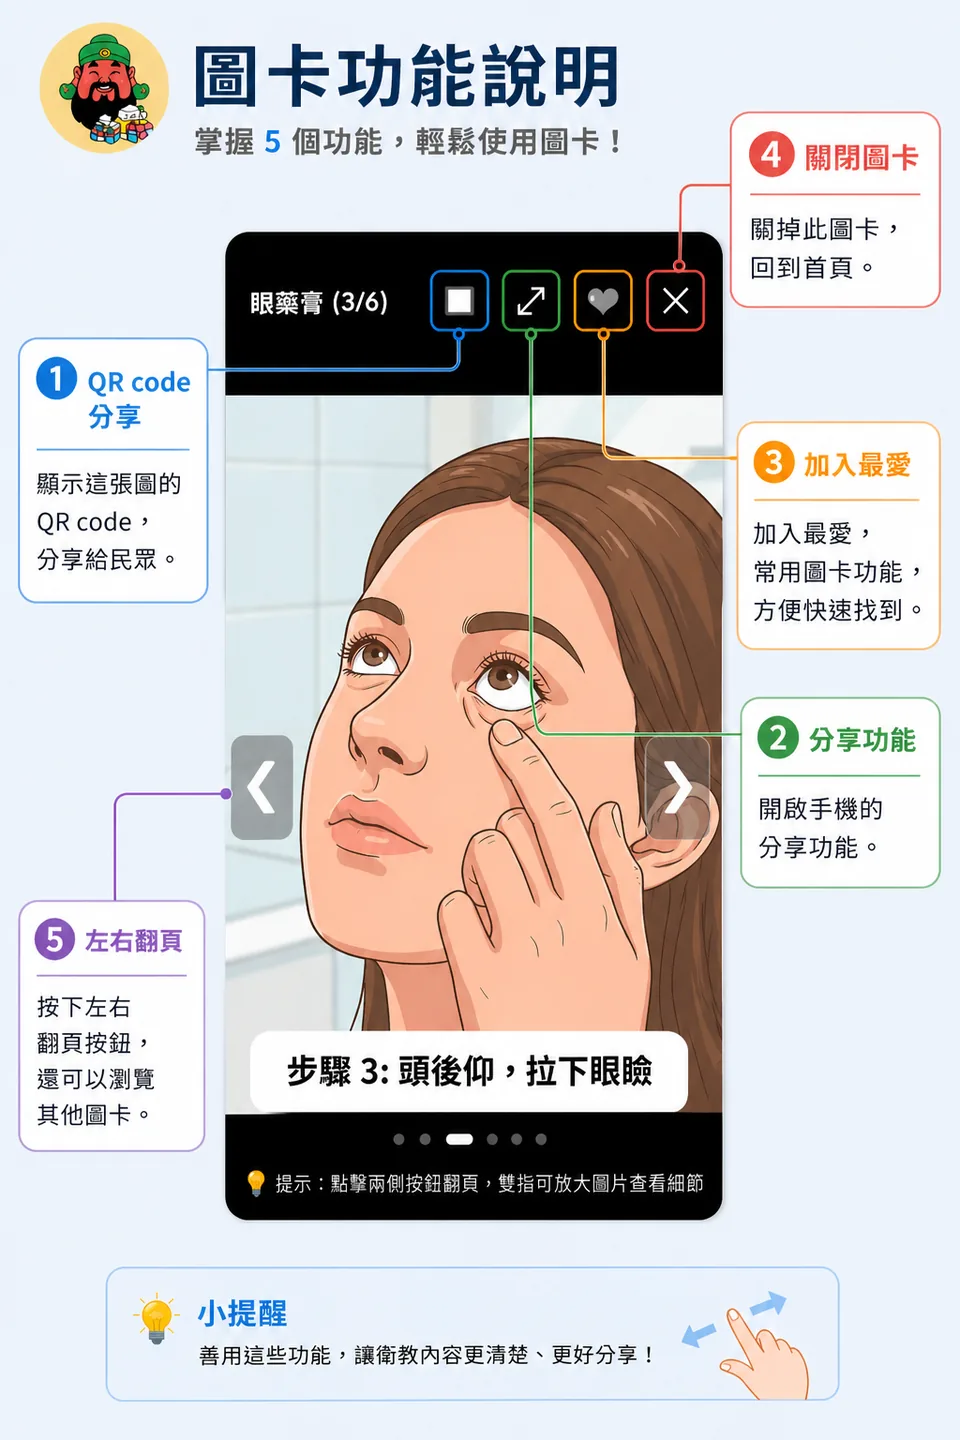
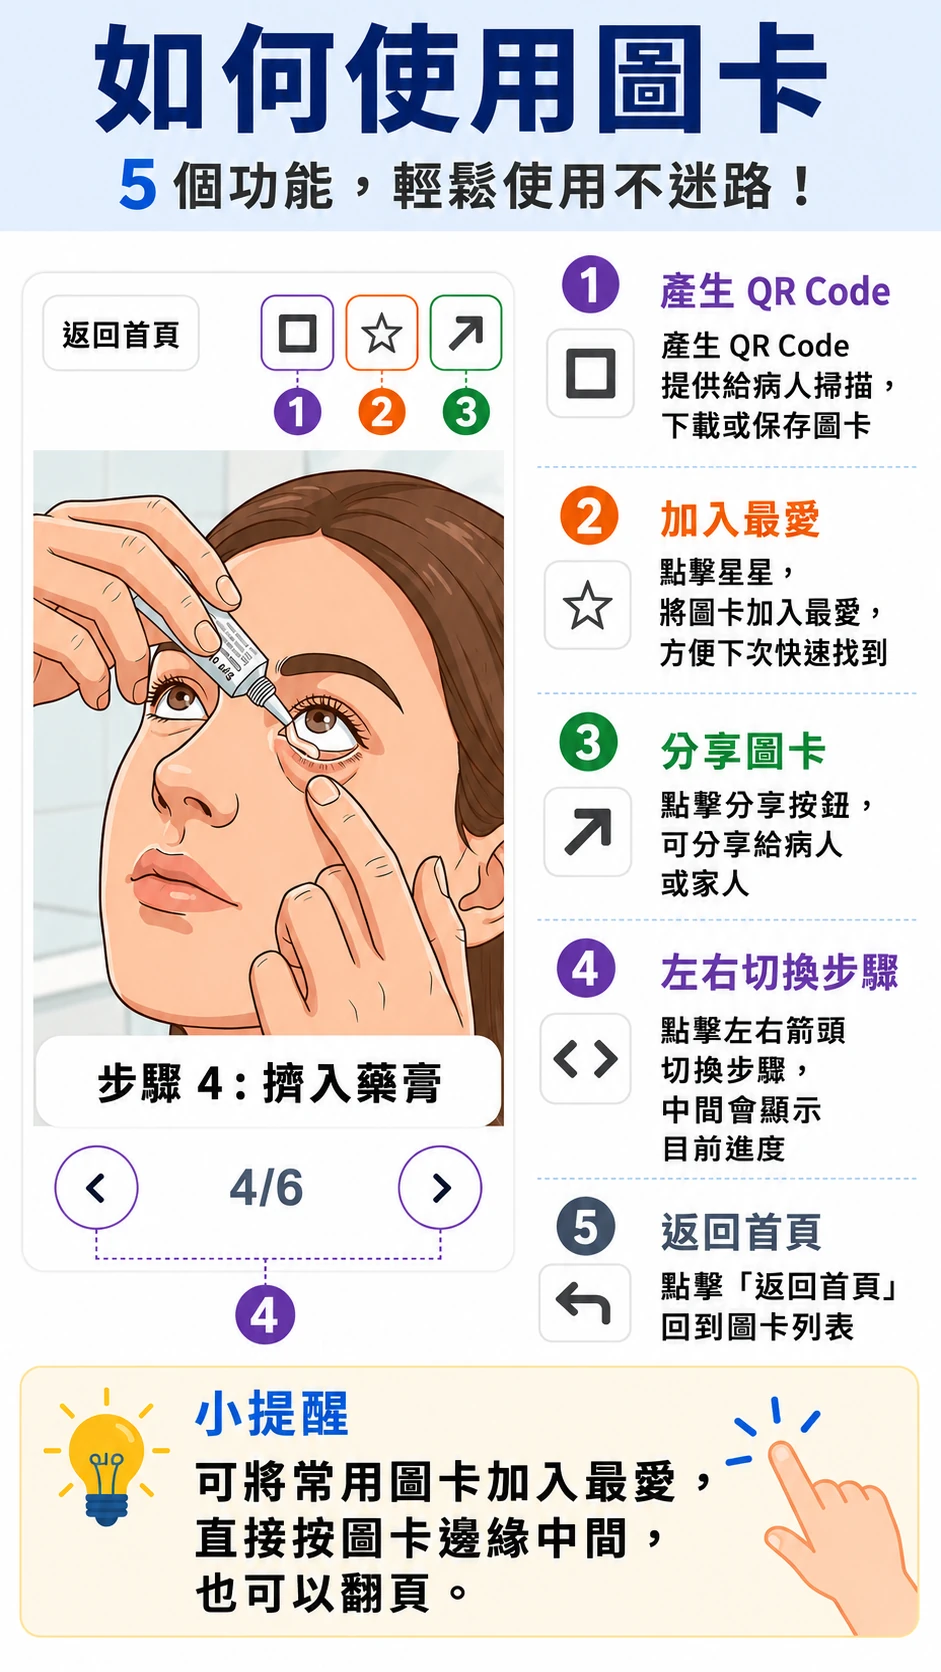
site instruction

diff --git a/sw.js b/sw.js
@@ -1,5 +1,5 @@
 // ?湔???唾?嚗撥餈恍??唳??
-const CACHE_NAME = 'pwa-cache-v202605142023';
+const CACHE_NAME = 'pwa-cache-v202605142348';
 const RUNTIME_CACHE = 'pwa-runtime-v1';
 
 // ?? ?ㄐ敺?ASSETS ?寞?鈭?urlsToCache嚗見 Python 蝞∪振?敺嚗?